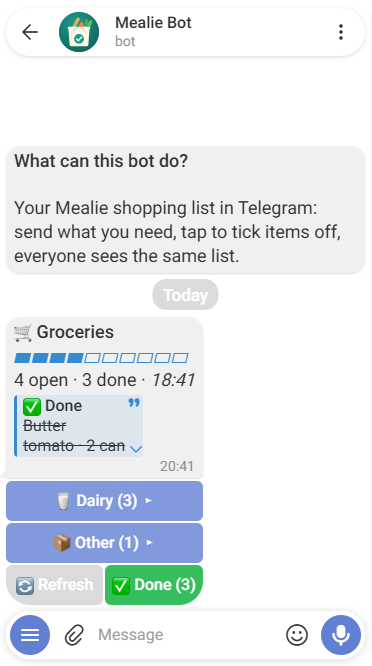
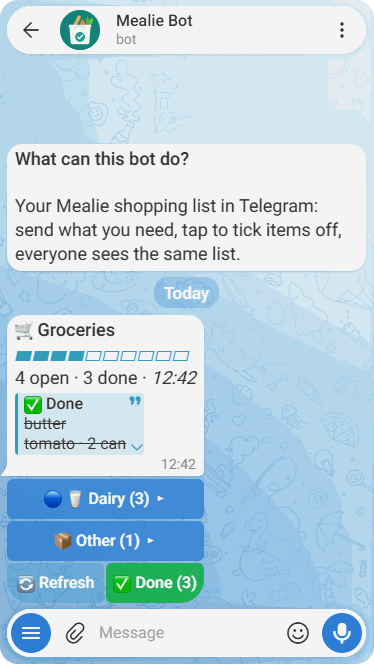
docs: refresh README screenshots with label colour circles (#88)
Retake list-collapsed, list-expanded and add-items with coloured demo
labels; the expanded view now also shows the Sort button under Other.
The screenshot notes list the units l, g and can, because the bot does
not create missing units yet, and name the foods as the pictures show
them.

Closes #48

diff --git a/docs/screenshots/README.md b/docs/screenshots/README.md
@@ -7,8 +7,8 @@ name.
 | File | What it shows | How to get there |
 |---|---|---|
 | `list-collapsed.png` | The live list: progress bar, collapsed categories with their colour circles, the *Done* quote and the *Refresh* / *Done* buttons | send `/list` |
-| `list-expanded.png` | One category opened, items as buttons, short names sharing a row | tap `🔵 🥛 Dairy` |
-| `add-items.png` | Your message `500 g flour, baking powder, 3 lemons` with the list right below it: the *Added* quote, the added categories opened and the *Undo* button | send that message |
+| `list-expanded.png` | Two categories opened, items as buttons, short names sharing a row, and the *Sort* button under *Other* | tap `🔵 🥛 Dairy` and `📦 Other` |
+| `add-items.png` | The end of your message `500 g flour, baking powder, 3 lemons` with the list right below it: the *Added* quote, the added categories opened and the *Undo* button | send that message |
 
 Optional dark variants are named `<name>-dark.png`.
 
@@ -19,11 +19,17 @@ Create a shopping list **Groceries** in Mealie with English labels and foods
 
 * Labels with colours, so the buttons show their circles: `Dairy` (`#5bc0de`,
   🔵), `Baking` (`#e8b84a`, 🟠), `Fruit & vegetables` (`#5cb85c`, 🟢)
-* Open items: `milk` 2 l, `eggs` 6, `yoghurt` (Dairy); `bread` (no food, so it
+* Units `l`, `g` and `can`, so `500 g flour` is read with its unit (the bot
+  does not create units yet)
+* Foods with a singular name and a plural name (the buttons show the
+  singular): `milk`, `egg`/`eggs`, `yoghurt`, `butter` (Dairy), `tomato`/`tomatoes`,
+  `banana`/`bananas`, `lemon`/`lemons` (Fruit & vegetables), `flour`,
+  `baking powder` (Baking)
+* Open items: `milk` 2 l, `egg` 6, `yoghurt` (Dairy); `bread` (no food, so it
   lands in *Other*)
-* Ticked off: `butter`, `tomatoes` 2 cans, `bananas`
-* Foods without items yet: `flour` (Baking), `baking powder` (Baking), `lemons`
-  (Fruit & vegetables); the third screenshot adds them
+* Ticked off: `butter`, `tomato` 2 cans, `banana`
+* Foods without items yet: `flour`, `baking powder` and `lemon`; the third
+  screenshot adds them
 
 Nothing else: no real products you buy, no other lists in the picture.
 

diff --git a/CHANGELOG.md b/CHANGELOG.md
@@ -44,6 +44,8 @@ and this project adheres to [Semantic Versioning](https://semver.org/spec/v2.0.0
   shopping lists, contributions for more are welcome. The README has a short roadmap section that points to the project
   board and the milestones; `.github/CONTRIBUTING.md` describes the workflow from issue
   to release.
+- The README screenshots show the category colour circles and the *Sort*
+  button.
 - A change in one chat no longer fetches the list again for every other chat
   that shows it: the other live messages are rendered from the list the
   changing chat just loaded.
